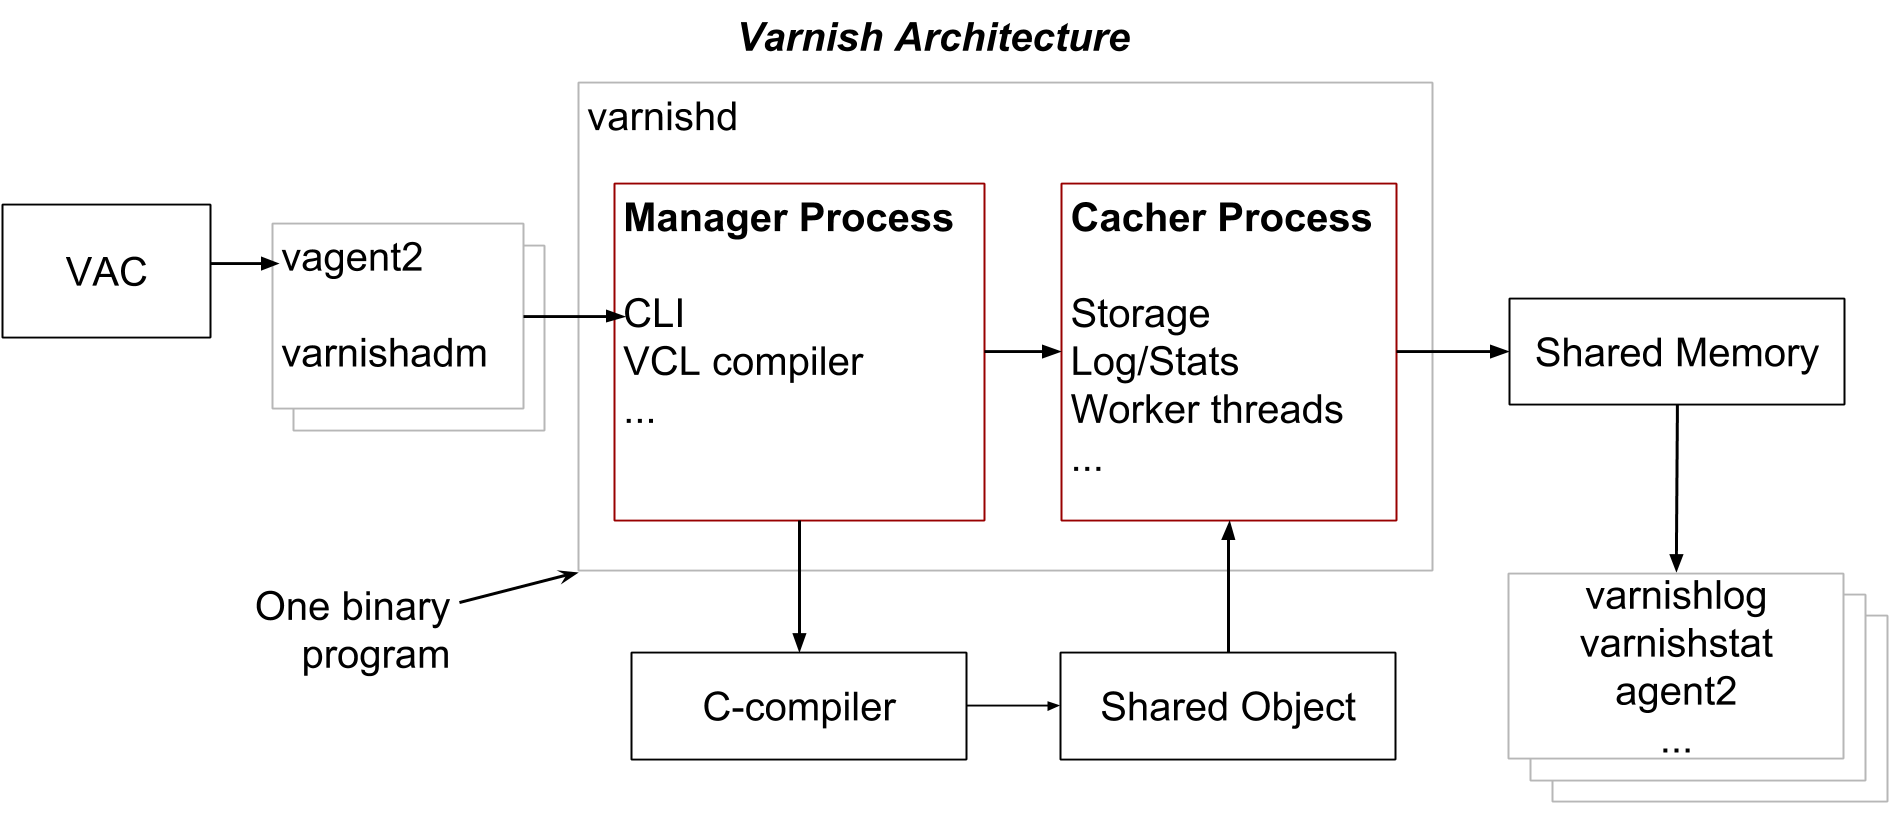
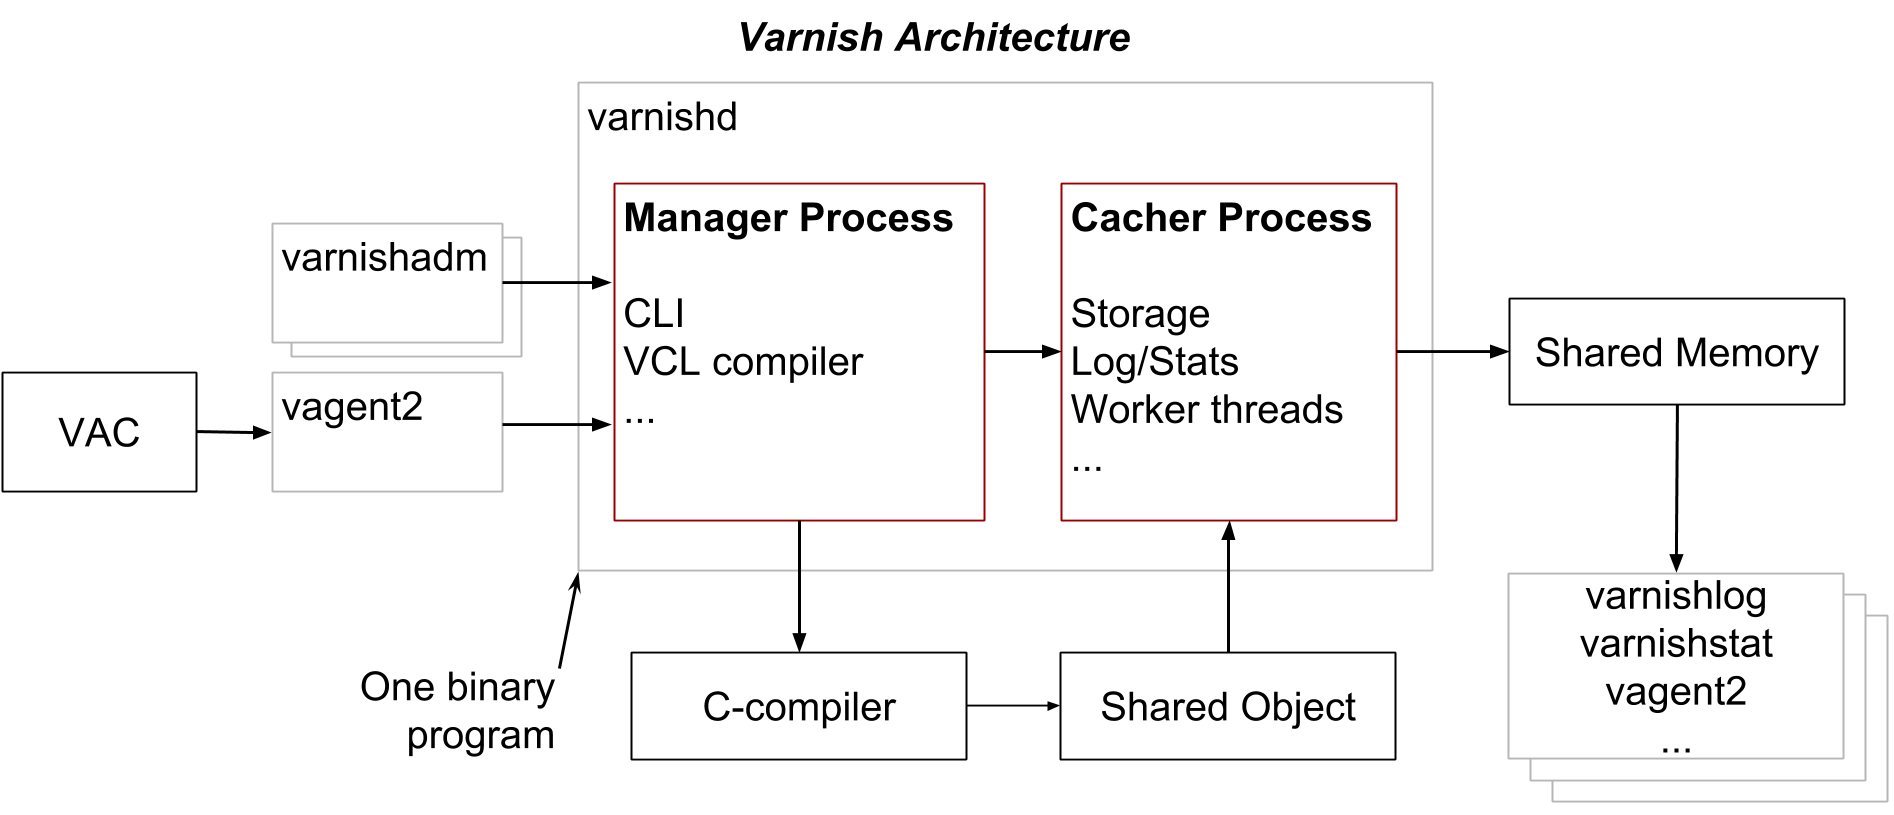
Updating directors, vagent2 and VAC

diff --git a/varnish_book.rst b/varnish_book.rst
@@ -1262,9 +1262,15 @@ Varnish Architecture
    ``varnishd`` creates a new child process mainly for security reasons.
    The parent and child processes are represented by the *Manager* and *Cacher* blocks respectively.
 
-   The Manager's CLI is accessible directly on the terminal, through ``varnishadm`` as explained in `The Management Interface`_ Subsection, or through the Varnish Administration Console (VAC) via *agent2*.
-   *agent2* exposes ``varnishd`` services to allow remote control and monitoring.
-   For more detailed information about vagent2, please visit https://github.com/varnish/vagent2.
+   The Manager's command line interface (CLI) is accessible through:
+   1) ``varnishadm`` as explained in `The Management Interface`_ Subsection, or
+   2) the Varnish Administration Console (VAC) via the Varnish Agent *vagent2*.
+   
+   The Varnish Agent *vagent2* is a HTTP REST interface that exposes ``varnishd`` services to allow remote control and monitoring.
+   Varnish Software has a commercial offering of a fully functional web UI called Varnish Administration Console (VAC).
+   Nevertheless, since *vagent2* is open, you can write your own code for it.
+
+   For more detailed information about *vagent2*, please visit https://github.com/varnish/vagent2.
 
    .. C-compiler
    .. TODO
@@ -2501,14 +2507,11 @@ Varnish request flow for the client worker thread
 .. TODO for the author: Double check that "client worker thread" has been introduced at this point.
 .. TODO for the author: Remove the name of functions "cnt_*"
 .. TODO for the author: Double check that the available variables are correct and not confusing.
-.. TODO for the editor: Sizing the figure over 33% throws error. Fix it!
-
-TODO: To simplify this diagram.
+.. TODO for the author: To simplify this diagram.
 
 .. image:: ui/img/cache_req_fsm.png
    :align: center
-
-..   :width: 33%
+   :scale: 130%
 
 Varnish request flow for the backend worker thread
 --------------------------------------------------
@@ -2516,14 +2519,11 @@ Varnish request flow for the backend worker thread
 .. TODO for the author: Double check that "backend worker thread" has been introduced at this point.
 .. TODO for the author: Consider to remove this image from here and have it only in Section VCL - vcl_backend_fetch
 .. TODO for the author: Double check that the available variables are correct and not confusing.
-.. TODO for the editor: Sizing the figure over 5% throws error. Fix it!
-
-TODO: To simplify this diagram.
+.. TODO for the author: To simplify this diagram.
 
 .. image:: ui/img/cache_fetch.png
    :align: center
-
-..   :width: 5%
+   :scale: 200%
 
 The VCL State Machine
 ---------------------
@@ -2597,16 +2597,6 @@ VCL Syntax
 VCL built-in functions
 ----------------------
 
-TODO: This table is not finished.
-
-.. test availability with varnishd -C -f foo.vcl
-
-.. csv-table:: VCL built-in subroutines and their functions
-   :name: subroutines_functions
-   :delim: ,
-   :header-rows: 1
-   :file: tables/subroutine_functions.csv
-
 List of functions and their arguments:
 
 - ``regsub(str, regex, sub)``
@@ -2616,10 +2606,17 @@ List of functions and their arguments:
 - ``hash_data(input)``
 - ``call(subroutine)``
 - ``new()``
-- ``rollback()``
 - ``synthetic(str)``
 - ``set()``
 - ``unset()``
+
+All functions are avialable in all subroutines, except the listed in Table `Specific Function Availability`_.
+
+.. csv-table:: Specific Function Availability
+   :name: Specific Function Availability
+   :delim: ,
+   :header-rows: 1
+   :file: tables/subroutine_functions.csv
 
 .. container:: handout
 
@@ -3936,11 +3933,6 @@ Directors
    Backend directors, usually just called directors, provide logical groupings of similar web servers.
    There are several different directors available, but they all share the same basic properties.
 
-   First of all, anywhere in VCL where you can refer to a backend, you can also refer to a director.
-
-   .. include: vcl/director_references.vcl
-      :literal:
-
    Directors allow you to re-use previously defined backends, or define "anonymous" backends within the director definition. 
    If a backend is defined explicitly and referred to or from a director, Varnish records data such as number of connections. 
    The definition of anonymous backends within a director also yields all the normal properties of a backend.
@@ -3959,13 +3951,6 @@ Directors
 
    The random director also has a director-wide counter called ``retries``, which increases every time the director selects a sick backend.
    The next backend to be selected depends on the selection method (i.e. random, round-robin, or hash) of the director.
-
-   .. TODO for the author: is the counter set to 0 after a health backend is found?
-
-   .. include: vcl/random_example.vcl
-     :literal:
-
-   The director of the above example selects ``localhost`` twice more than ``example.com``.
 
    .. note::
 
